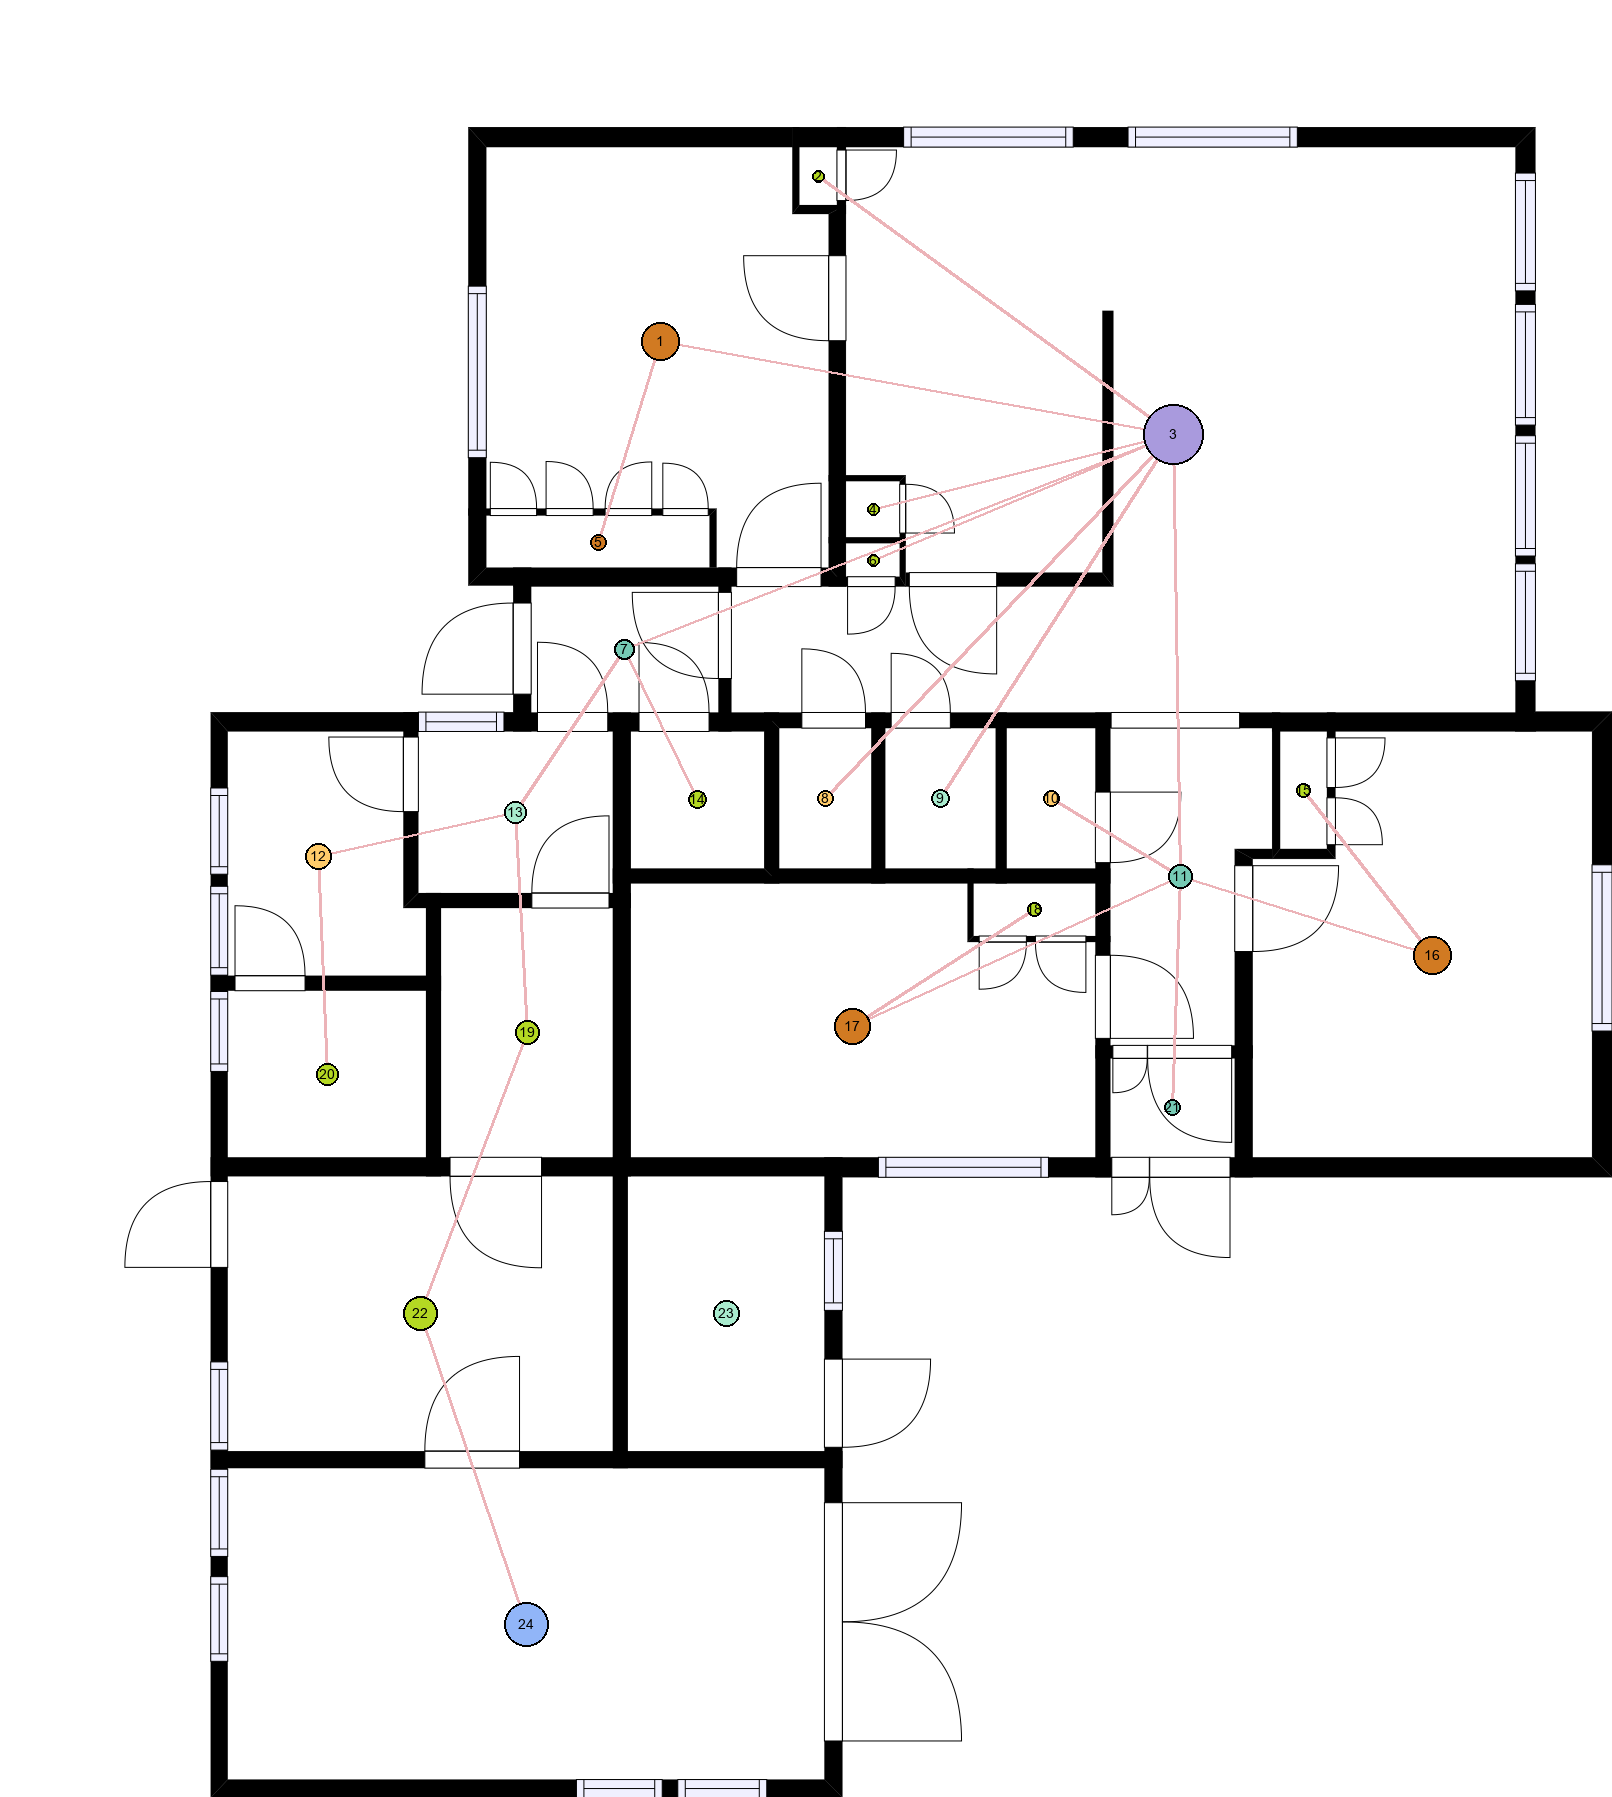
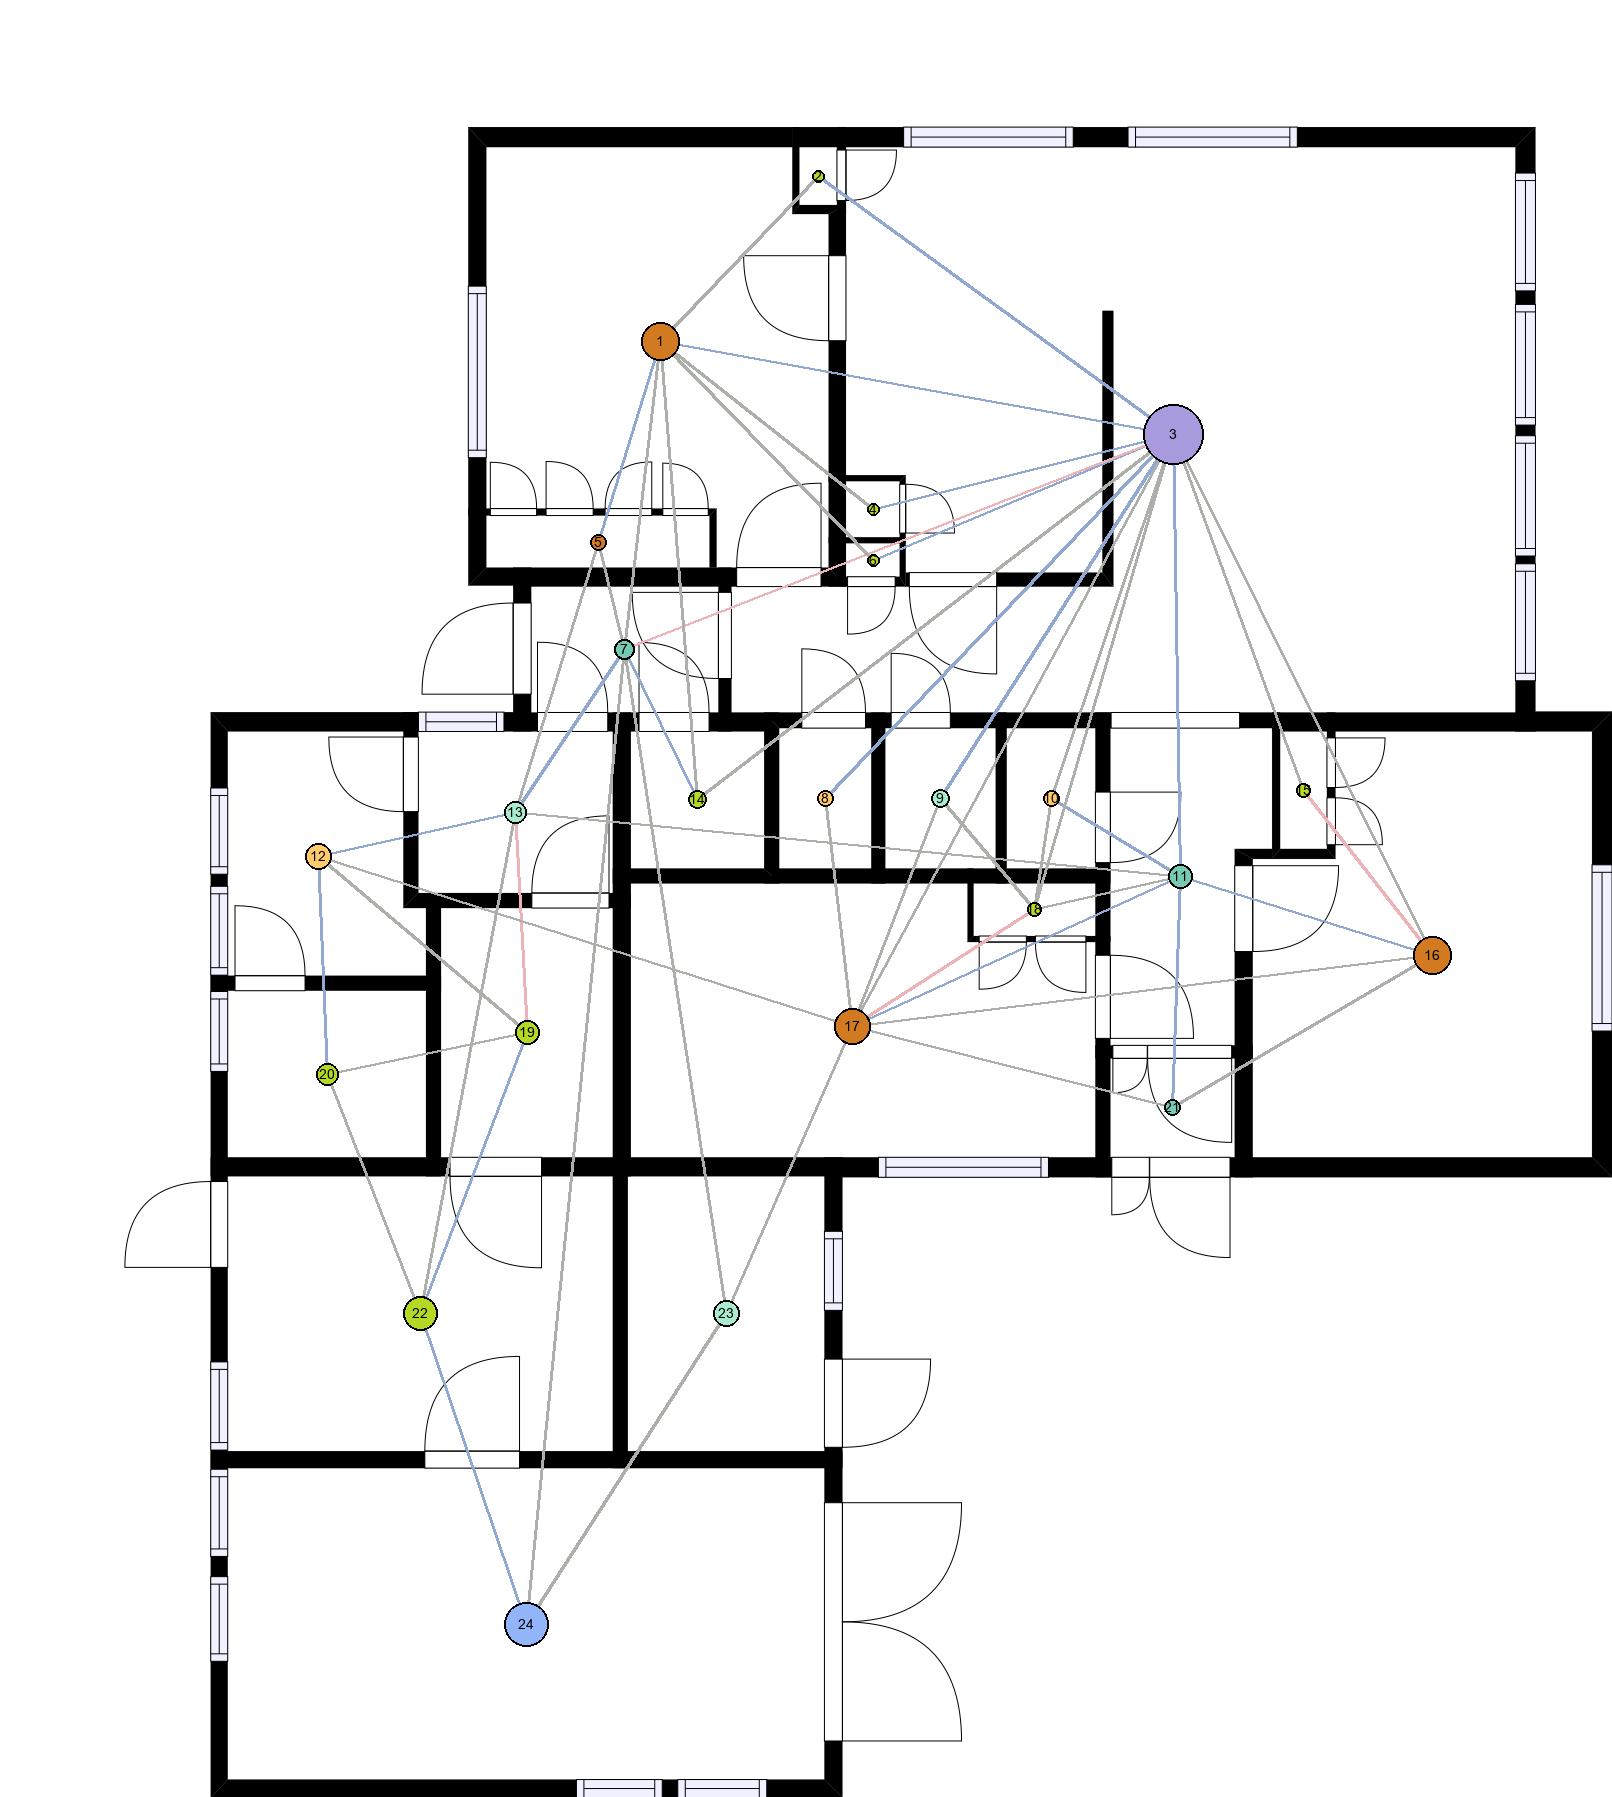
debug

diff --git a/indoor_topology/debug_topology.py b/indoor_topology/debug_topology.py
@@ -2,7 +2,7 @@ import numpy as np
 from PIL import Image
 import matplotlib.pyplot as plt
 from indoor_topology.extract_rooms import extract_rooms
-from indoor_topology.detect_adjacency_v2 import detect_adjacency
+from indoor_topology.detect_adjacency import detect_adjacency
 from indoor_topology.save_topology_image import save_topology_image, save_to_excel, build_topology_graph
 
 
